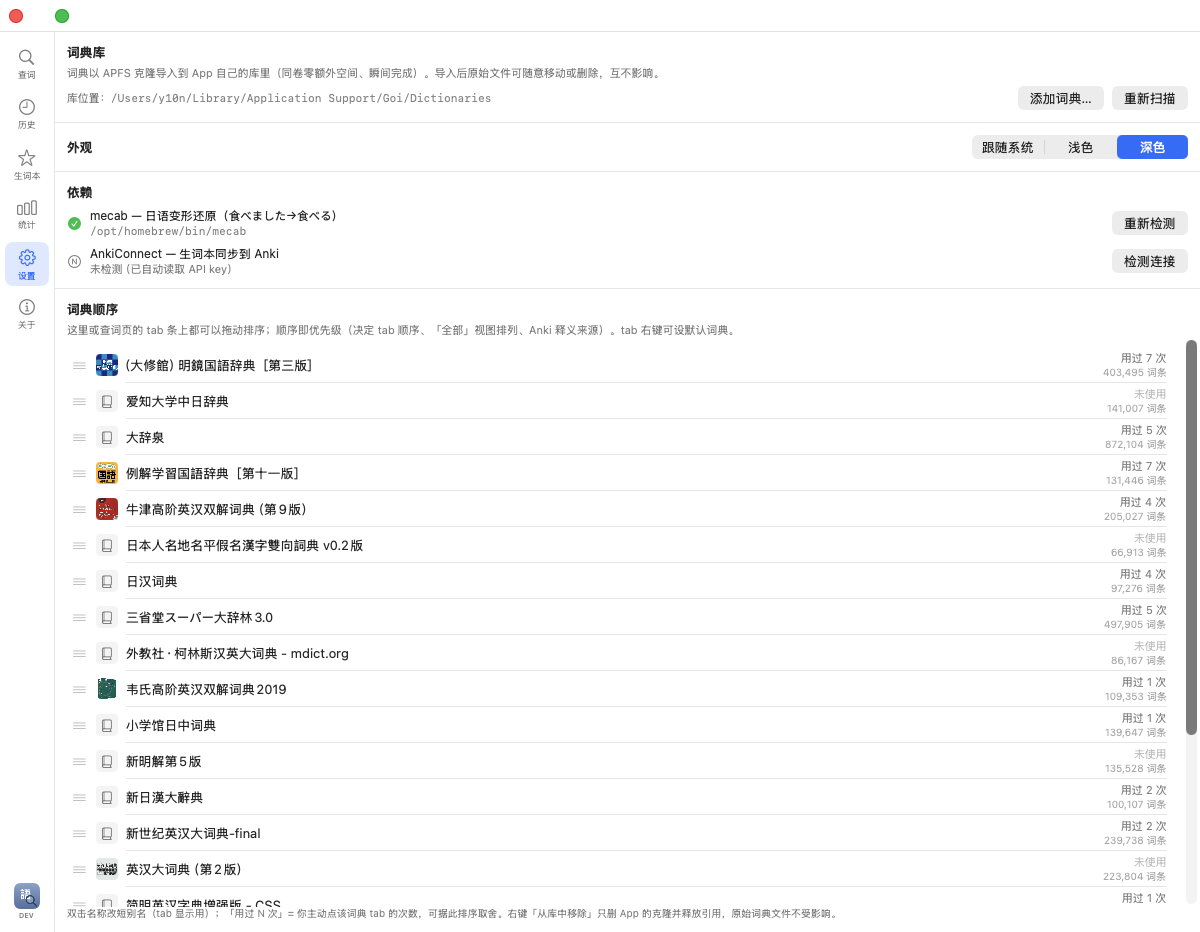
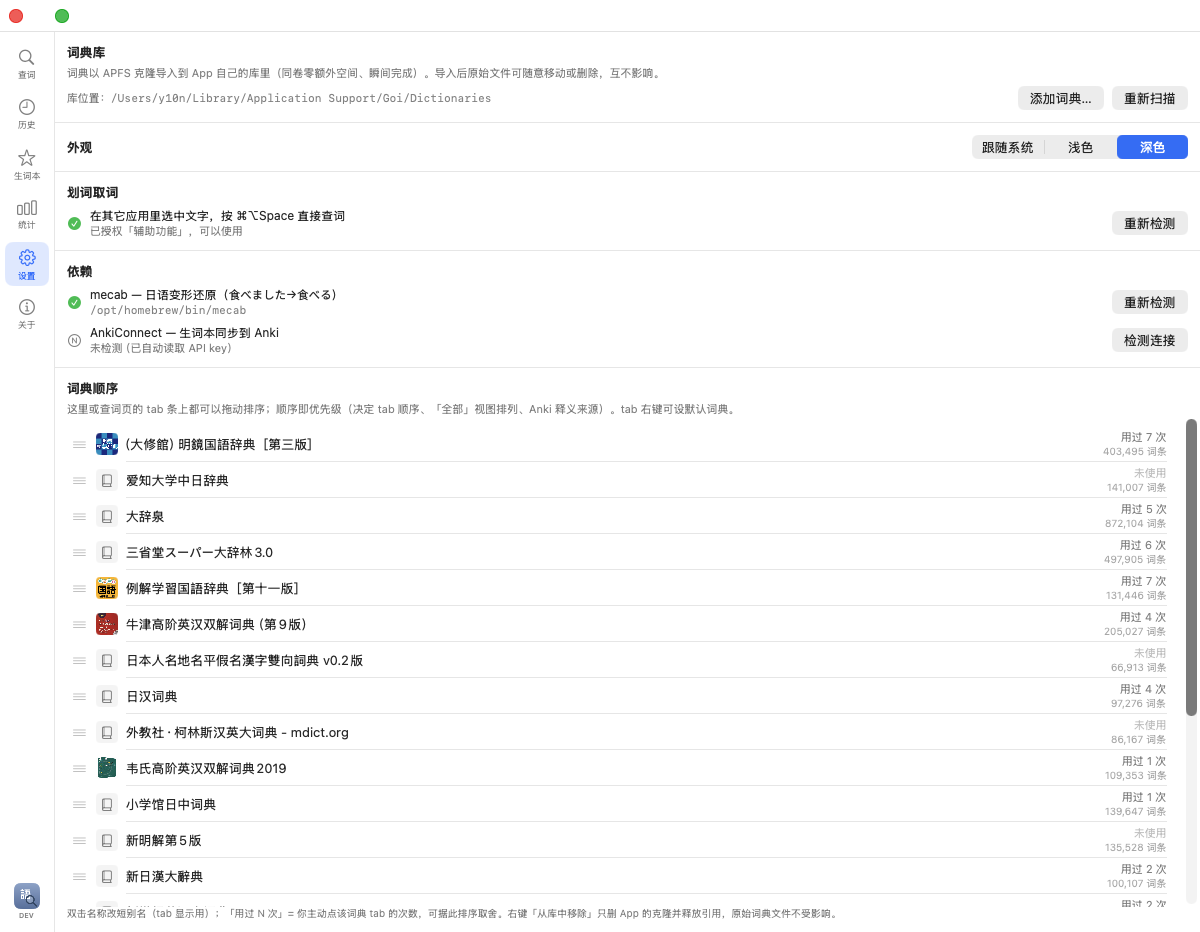
feat(settings): ✨ add 划词取词 permission guide; docs: comparison table
- Settings gains a 划词取词 section showing whether Accessibility is
  granted, with a one-click 开启权限… button that prompts and opens the
  right System Settings pane — users no longer have to hunt for it.
- Manual: add an honest comparison table vs GoldenDict-ng and Eudic,
  highlighting what Goi adds (APFS-clone import, auto familiarity, per-word
  notes, dictionary-usage stats, two-way Anki) and candidly noting what it
  still lacks (macOS-only, no full-text search / mobile / cloud sync).

diff --git a/Sources/GoiApp/WordbookView.swift b/Sources/GoiApp/WordbookView.swift
@@ -338,6 +338,7 @@ struct SettingsView: View {
     @State private var ankiStatus = "未检测"
     @State private var copied = false
     @State private var theme = AppTheme.current
+    @State private var axTrusted = TextGrabber.isTrusted
 
     struct Row: Identifiable {
         let id: String
@@ -395,6 +396,38 @@ struct SettingsView: View {
                 .pickerStyle(.segmented)
                 .fixedSize()
                 .onChange(of: theme) { AppTheme.apply($0) }
+            }
+            .padding(12)
+
+            Divider()
+
+            // ---- text selection (划词取词) permission ----
+            VStack(alignment: .leading, spacing: 8) {
+                Text("划词取词").font(.headline)
+                HStack(spacing: 8) {
+                    Image(systemName: axTrusted ? "checkmark.circle.fill" : "exclamationmark.triangle.fill")
+                        .foregroundColor(axTrusted ? .green : .orange)
+                    VStack(alignment: .leading, spacing: 1) {
+                        Text("在其它应用里选中文字，按 ⌘⌥Space 直接查词").font(.system(size: 12))
+                        Text(axTrusted ? "已授权「辅助功能」，可以使用" : "需要「辅助功能」权限才能读取选中的文字")
+                            .font(.system(size: 11))
+                            .foregroundColor(.secondary)
+                    }
+                    Spacer()
+                    if !axTrusted {
+                        Button("开启权限…") {
+                            TextGrabber.requestTrust()
+                            NSWorkspace.shared.open(URL(string: "x-apple.systempreferences:com.apple.preference.security?Privacy_Accessibility")!)
+                        }
+                    }
+                    Button("重新检测") { axTrusted = TextGrabber.isTrusted }
+                }
+                if !axTrusted {
+                    Text("点「开启权限…」后，在弹出的系统设置里把 Goi 的开关打开，再回来点「重新检测」。")
+                        .font(.system(size: 11))
+                        .foregroundColor(.secondary)
+                        .fixedSize(horizontal: false, vertical: true)
+                }
             }
             .padding(12)
 